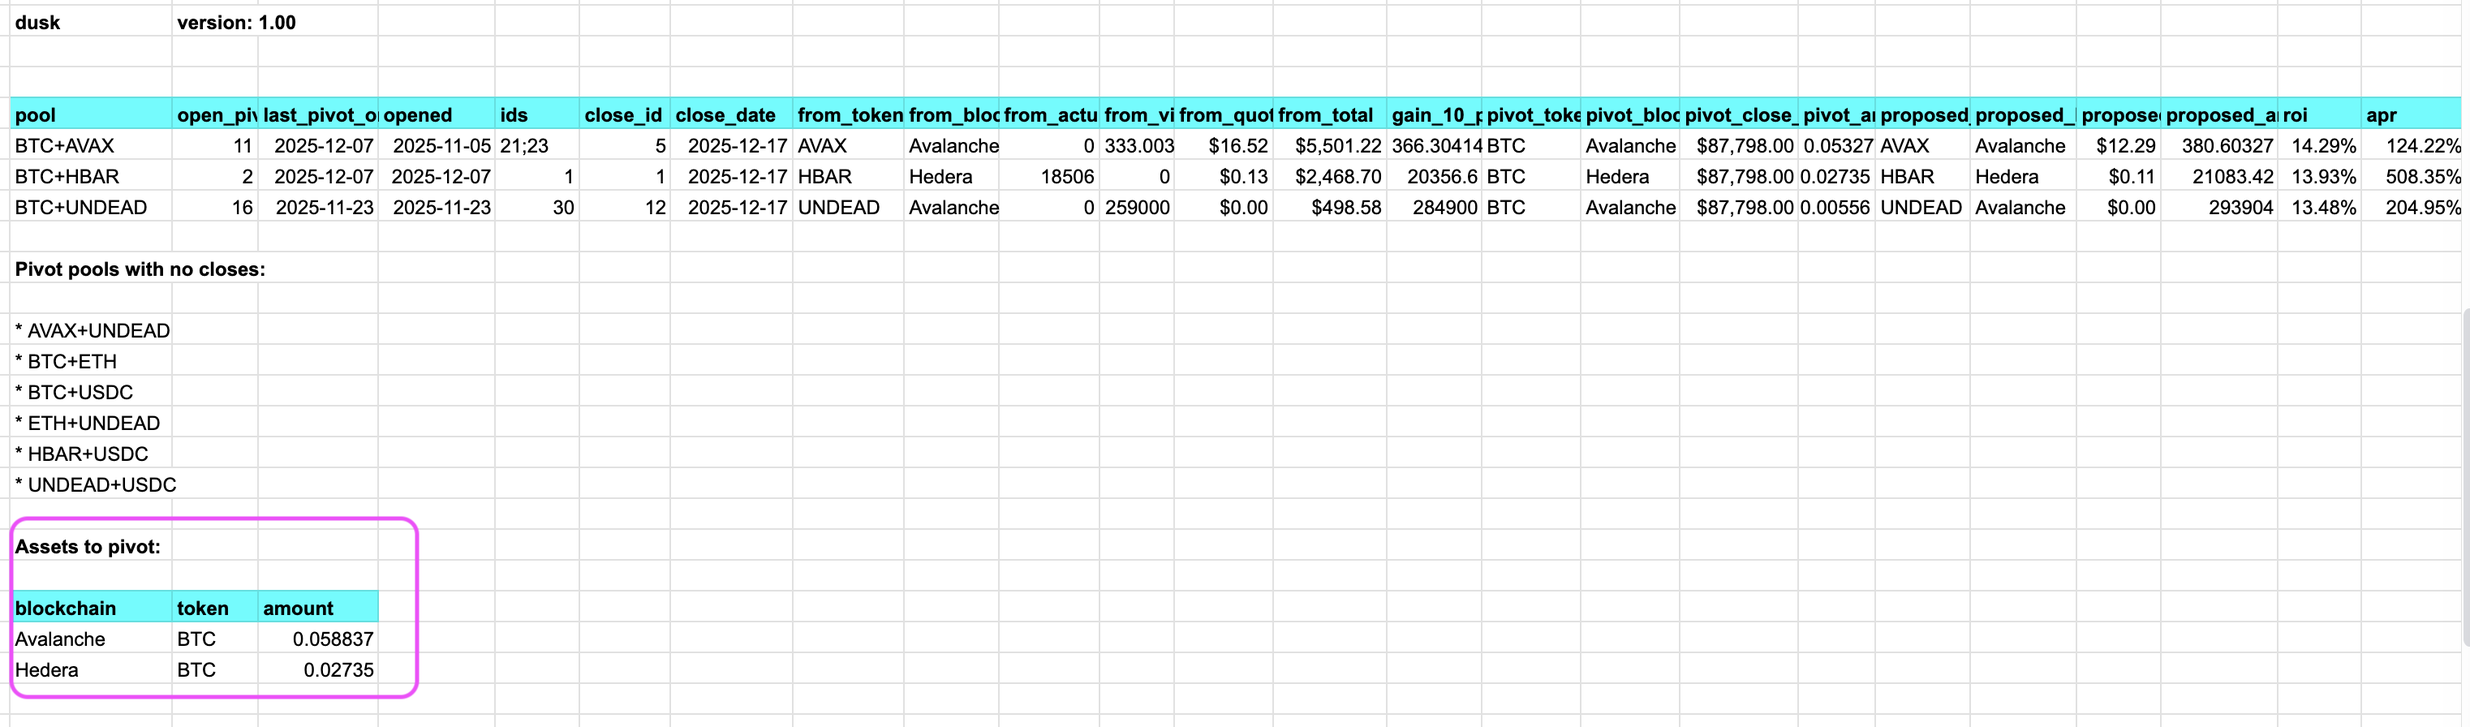
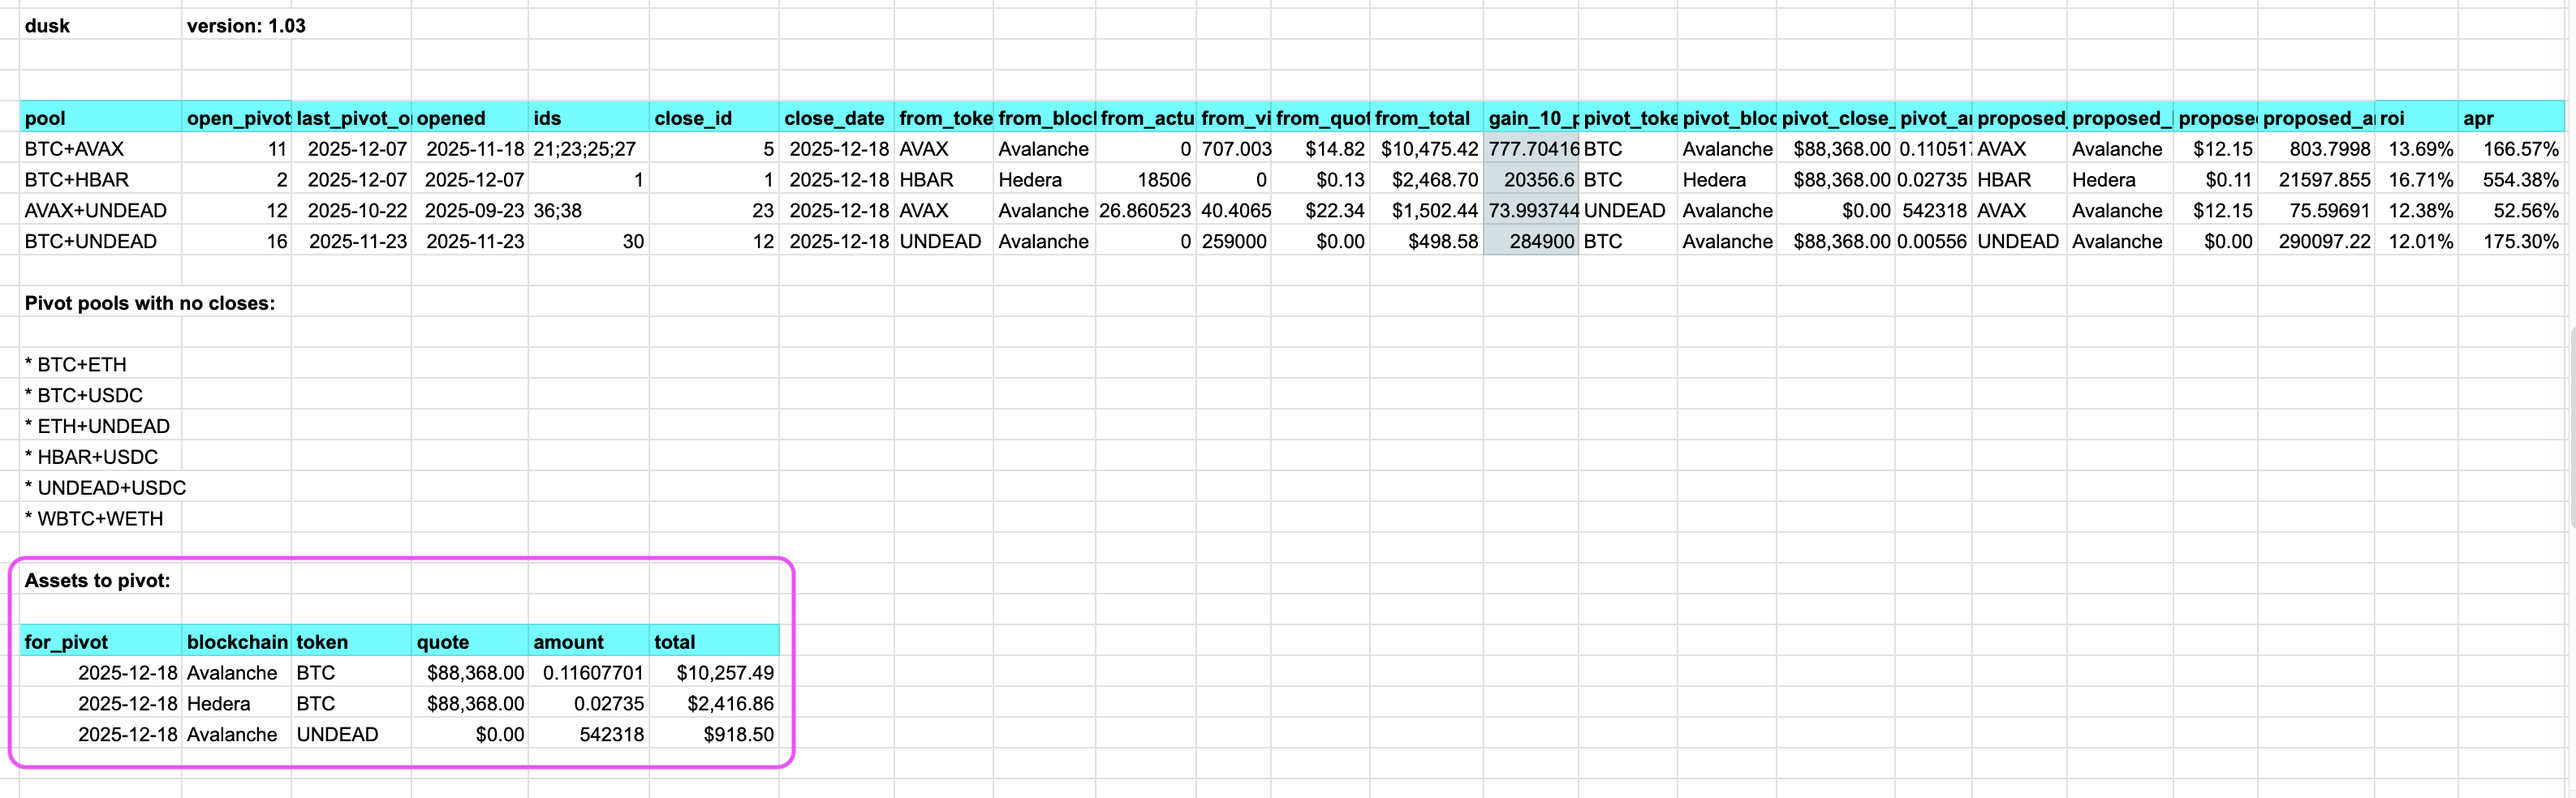
Sorting assets to pivot by blockchain

Changed region(s): [[0.0, 0.125, 1.0, 1.0], [0.0, 0.0, 0.9987, 0.0938]]

diff --git a/libs/src/types/util.rs b/libs/src/types/util.rs
@@ -4,7 +4,7 @@ use chrono::NaiveDate;
 
 use book::{
    csv_utils::CsvWriter,
-   currency::usd::USD
+   currency::usd::{USD,mk_usd}
 };
 
 // ----- Your basic types used across all domains -------------------------
@@ -54,17 +54,15 @@ pub fn sort_descending<M: Measurable>(a: &M, b: &M) -> Ordering {
 pub struct Asset {
    blockchain: Blockchain,
    token: Token,
-   amount: f32
-   // quote: USD,
-   // date: NaiveDate
+   pub amount: f32,
+   quote: USD,
+   date: NaiveDate
 }
 
-/*
 impl Measurable for Asset {
    fn sz(&self) -> f32 { self.amount }
    fn aug(&self) -> f32 { self.sz() * self.quote.amount }
 }
-*/
 
 impl CsvHeader for Asset {
    fn header(&self) -> String {
@@ -72,29 +70,27 @@ impl CsvHeader for Asset {
    }
 }
 impl CsvWriter for Asset {
-   fn ncols(&self) -> usize { 3 }
+   fn ncols(&self) -> usize { 6 }
    fn as_csv(&self) -> String {
-      format!("{},{},{}", self.blockchain, self.token, self.amount)
+      format!("{},{},{},{},{},{}", 
+              self.date, self.blockchain, self.token, self.quote, self.amount,
+              mk_usd(self.amount * self.quote.amount))
    }
-}
-
-fn addm(amt: f32, mult: i32, adj: Option<&f32>) -> f32 {
-   let ans = adj.and_then(|a| Some(mult as f32 * a + amt));
-   if let Some(x) = ans { x } else { amt }
 }
 
 impl Asset {
    pub fn key(&self) -> (Blockchain, Token) {
       (self.blockchain.clone(), self.token.clone())
    }
-   pub fn madd(&self, amt: Option<&f32>) -> f32 { addm(self.amount, 1, amt) }
-   pub fn msubtract(&self, amt: Option<&f32>) -> f32 { 
-      addm(self.amount, -1, amt)
-   }
 }
 
-pub fn mk_asset(k: &(Blockchain, Token), amount: f32) -> Asset {
+pub fn mk_asset(k: &(Blockchain, Token), amount: f32,
+                quote: &USD, date: &NaiveDate) -> Asset {
    let (b, t) = k;
-   Asset { blockchain: b.clone(), token: t.clone(), amount }
+   Asset { blockchain: b.clone(),
+           token: t.clone(), 
+           amount, 
+           quote: quote.clone(),
+           date: date.clone() }
 }
 

diff --git a/libs/src/types/pivots.rs b/libs/src/types/pivots.rs
@@ -20,7 +20,7 @@ use crate::{
    types::{
       quotes::{Quotes,lookup},
       util::{Token,Blockchain,Id,CsvHeader,Partition,Measurable,
-             Asset as Coin,mk_asset as mk_coin,weight,size}
+             Asset as Coin,mk_asset as mk_coin,weight,size,Pool}
    }
 };
 
@@ -273,8 +273,30 @@ pub struct Propose {
    propose: PropAsset
 }
 
+fn blockchain(p: &Propose) -> Blockchain {
+   if let Some(blk) =
+         p.pivot.first().and_then(|q| Some(q.blockchain.to_string())) {
+      blk
+   } else {
+      panic!("No blockchain for proposal!")
+   }
+}
+
+fn pool(p: &Propose) -> Pool {
+   if let Some(pool) = p.principal
+       .first()
+       .and_then(|q| 
+          p.pivot
+           .first()
+           .and_then(|r| Some((q.token.to_string(), r.token.to_string())))) {
+      pool
+   } else {
+      panic!("Missing principal or pivot (or both) asset from proposal")
+   }
+}
+      
 pub fn pivot_amount(p: &Propose) -> Coin {
-   pivot_amount0(&p.pivot)
+   pivot_amount0(blockchain(p), pool(p), &p.close_date, &p.pivot)
 }
 
 impl Measurable for Propose {
@@ -440,14 +462,10 @@ fn mk_prop_asset(tkn: &str, blk: &str, c: f32, amount: f32, knd: &AssetType)
                close_price: mk_usd(c), amount, kind: knd.clone() }
 }
 
-fn pivot_amount0(p: &Vec<PropAsset>) -> Coin {
-   if let Some(fst) = p.first() {
-      let token = fst.token.clone();
-      let blockchain = fst.blockchain.clone();
-      mk_coin(&(blockchain, token), size(p))
-   } else {
-      panic!("Could not find a pivot-asset for a close-recommendation!")
-   }
+fn pivot_amount0(blockchain: Blockchain, pool: Pool,
+                 date: &NaiveDate, assets: &Vec<PropAsset>) -> Coin {
+   let (_, piv) = pool.clone();
+   mk_coin(&(blockchain, piv), size(&assets), &mk_usd(weight(&assets)), &date)
 }
 
 pub fn propose(q: &Quotes)

diff --git a/libs/src/collections/assets.rs b/libs/src/collections/assets.rs
@@ -1,29 +1,34 @@
 use std::collections::HashMap;
 
-use crate::types::util::{Token, Blockchain,Asset,mk_asset};
+use crate::types::util::{Token,Blockchain,Asset,sort_descending};
 
 /// An Assets (a singular collection of a plurality of assets) is a bag
 /// where the size is the amount of the asset
 
-pub type Assets = HashMap<(Blockchain,Token), f32>;
+pub struct Assets { map: HashMap<(Blockchain,Token), Asset> }
 
-pub fn add(m: &mut Assets, a: &Asset) {
-   let k = a.key();
-   let amt = a.madd(m.get(&k));
-   m.insert(k, amt);
-}
-pub fn subtract(m: &mut Assets, a: &Asset) {
-   let k = a.key();
-   let amt = a.msubtract(m.get(&k));
-   if amt < 0.0 { panic!("Withdrew more {:?} than available!", a); }
-   if amt == 0.0 { m.remove(&k); } else { m.insert(k, amt); }
-}
+pub fn mk_assets() -> Assets { Assets { map: HashMap::new() } }
 
-pub fn assets(a: &Assets) -> Vec<Asset> {
-   let mut v = Vec::new();
-   for (k,amt) in a {
-      v.push(mk_asset(k, *amt));
+impl Assets {
+   pub fn add(&mut self, asset: Asset) {
+      self.map.entry(asset.key())
+          .and_modify(|a| a.amount += asset.amount)
+          .or_insert(asset);
    }
-   v
+   pub fn subtract(&mut self, asset: &Asset) {
+      let k = asset.key();
+      if let Some(a) = self.map.get_mut(&k) {
+         let amt = a.amount - asset.amount;
+         if amt < 0.0 { panic!("Withdrew more {:?} than available!", a); }
+         if amt == 0.0 { self.map.remove(&k); } else { a.amount = amt; }
+      } else {
+         panic!("No asset {:?} to remove!", asset)
+      }
+   }
+   pub fn assets(&self) -> Vec<Asset> {
+      let mut ans: Vec<Asset> = self.map.values().cloned().collect();
+      ans.sort_by(sort_descending);
+      ans
+   }
 }
 

diff --git a/quizzes/quiz05/a_assets/src/main.rs b/quizzes/quiz05/a_assets/src/main.rs
@@ -1,21 +1,16 @@
-// use std::collections::HashMap;
-
 use book::{
    utils::get_args,
    err_utils::ErrStr
 };
 
 use libs::{
-   collections::assets::{Assets,assets,add},
+   collections::assets::mk_assets,
    processors::process_pools,
    reports::{report_proposes,proposal,print_table},
-   types::{
-      pivots::pivot_amount,
-      util::sort_descending
-   }
+   types::pivots::pivot_amount
 };
 
-fn version() -> String { "1.01".to_string() }
+fn version() -> String { "1.03".to_string() }
 fn app_name() -> String { "dusk".to_string() }
 
 fn usage() -> ErrStr<()> {
@@ -35,15 +30,13 @@ async fn main() -> ErrStr<()> {
    if let [ath, dt] = get_args().as_slice() {
       let (proposals, no_closes) = process_pools(&ath, &dt).await?;
       println!("{}, version: {}", app_name(), version());
-      let mut props = proposals.clone();
-      props.sort_by(sort_descending);
-      report_proposes(&props, &no_closes);
-      let mut tokens = Assets::new();
+      report_proposes(&proposals, &no_closes);
+      let mut tokens = mk_assets();
       proposals.iter().for_each(|p| {
          let asset = pivot_amount(&proposal(p));
-         add(&mut tokens, &asset);
+         tokens.add(asset);
       });
-      print_table("\nAssets to pivot:", &assets(&tokens));
+      print_table("\nAssets to pivot:", &tokens.assets());
       Ok(())
    } else {
       usage()

diff --git a/libs/src/processors.rs b/libs/src/processors.rs
@@ -8,7 +8,7 @@ use book::{
 
 use crate::{
    types::{
-      util::Pool,
+      util::{Pool,sort_descending},
       pivots::{propose,next_close_id,partition_on}
    },
    fetchers::{fetch_pivots,fetch_quotes},
@@ -55,6 +55,7 @@ async fn process_pools0(root_url: &str, pools: &Vec<Pool>, date: NaiveDate)
          no_closes.push(pool.clone());
       }
    }
+   proposals.sort_by(sort_descending);
    Ok((proposals, no_closes))
 }
 

diff --git a/dapps/dusk/README.md b/dapps/dusk/README.md
@@ -15,5 +15,7 @@ where:
 
 ## Revisions
 
-1.01, 2025-12-18: Sort pivots by USD-amount-pivoted
-1.00, 2025-12-18: release
+* 1.03, 2025-12-18: sorting aggregated assets to pivot by USD-value
+* 1.02, 2025-12-18: Generic sort-function for any Measurable-type
+* 1.01, 2025-12-18: Sort pivots by USD-amount-pivoted
+* 1.00, 2025-12-18: release
